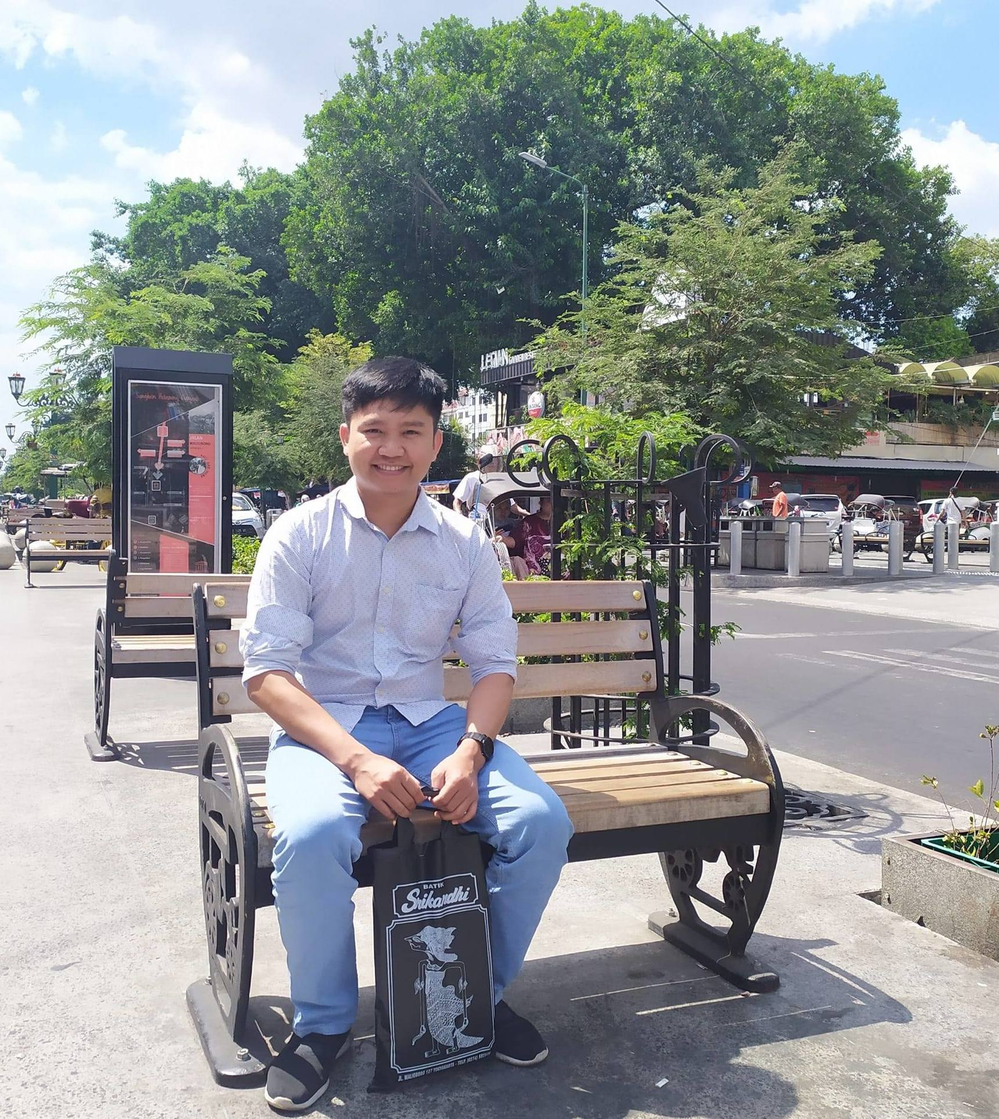
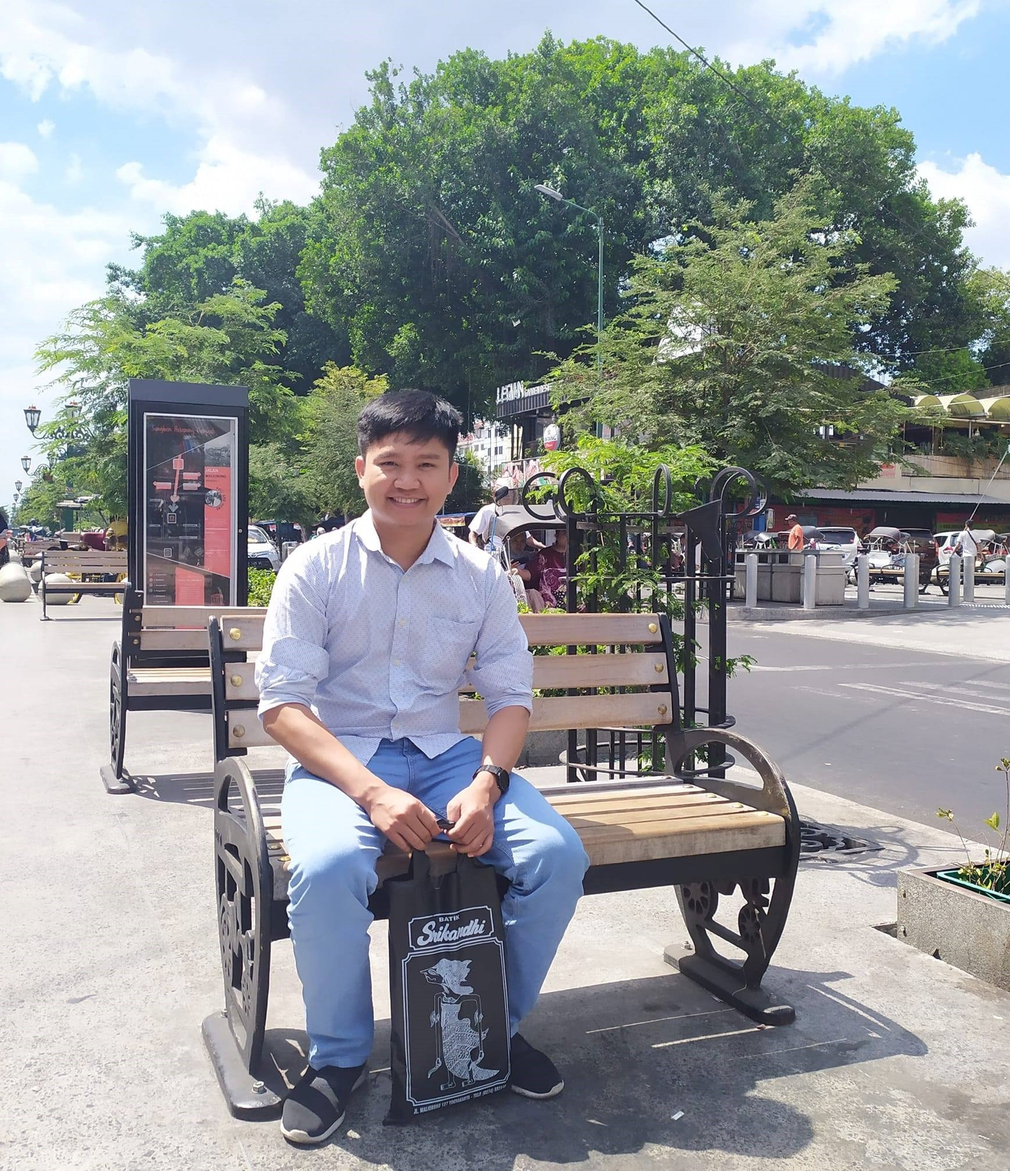
commit

diff --git a/index.html b/index.html
@@ -158,8 +158,8 @@
         <div class="col-lg-4 text-center">
           <img class="img-fluid" src="img/me/me1.jpg" alt="Bakti Siregar profile picture"
             style="background-size: 150px;
-                    width: 250px;
-                    height: 250px;
+                    width: 300px;
+                    height: 300px;
                     border: solid 1.5px #00918a;">
         </div>
         <div class="col-lg-8 text-center text-md-left">
